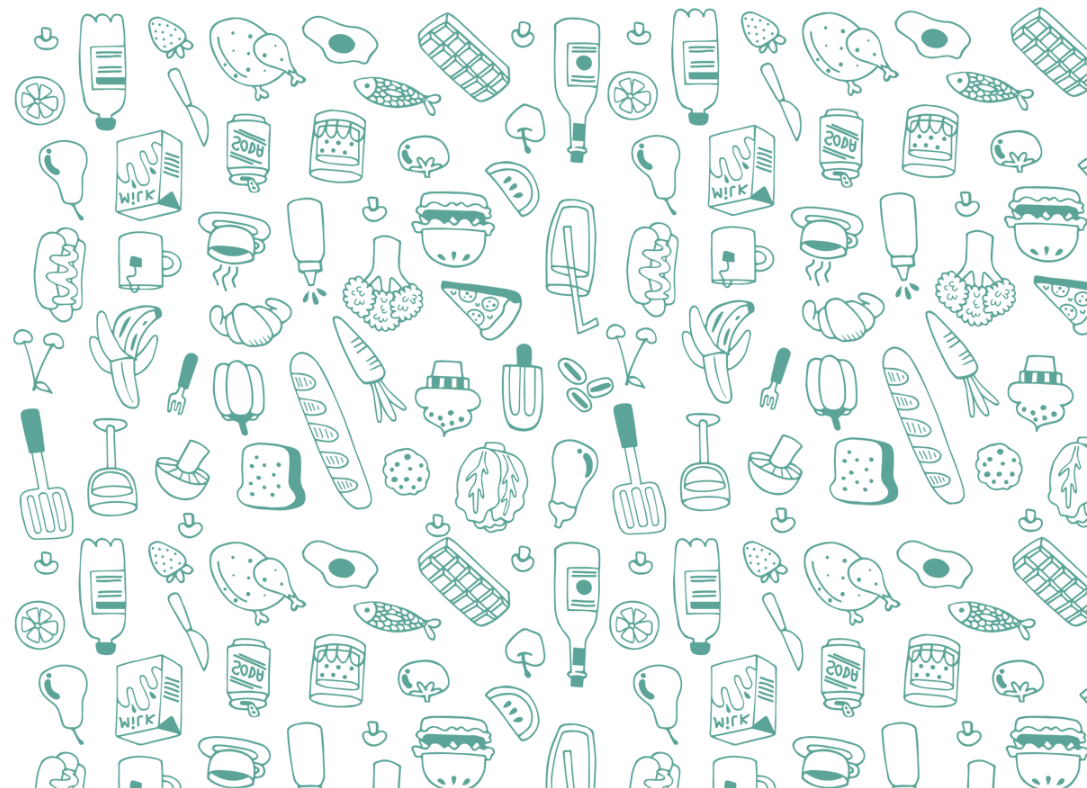
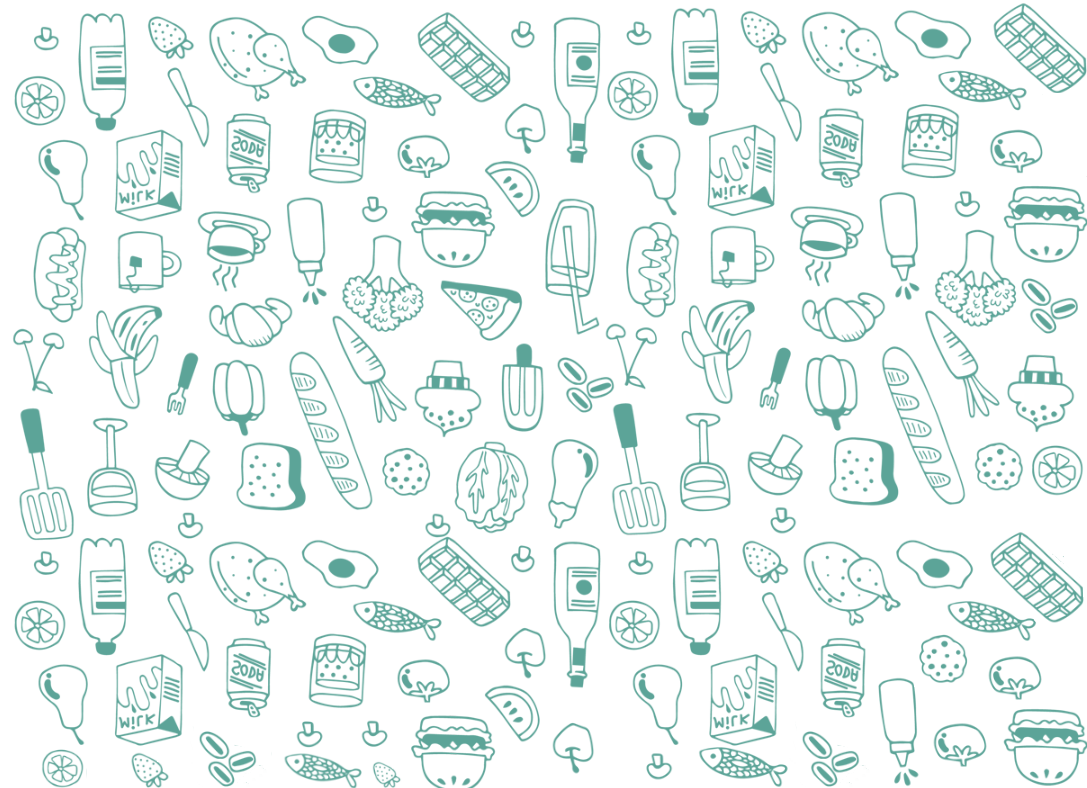
alteracao de background image

diff --git a/index.html b/index.html
@@ -50,7 +50,7 @@
     <div id="corpo-nav" class="container-fluid sticky-top">
         <div id="nav" class="container">
             <nav class="navbar navbar-expand-lg navbar-light">
-                <button class="navbar-toggler float-right" type="button" data-toggle="collapse"
+                <button class="navbar-toggler" type="button" data-toggle="collapse"
                     data-target="#navbarNavAltMarkup" aria-controls="navbarNavAltMarkup" aria-expanded="false"
                     aria-label="Toggle navigation">
                     <span class="navbar-toggler-icon"></span>

diff --git a/css/style.css b/css/style.css
@@ -39,10 +39,7 @@ body, html, #main{
 
 body > div#corpo-pagina{
     background-image: url(../img/backgroundColored.png);
-    height: 100%;
-    background-position: center;
-    background-repeat: repeat!important;
-    background-size: cover;
+    background-repeat: repeat;
 }
 
 div#pagina{
